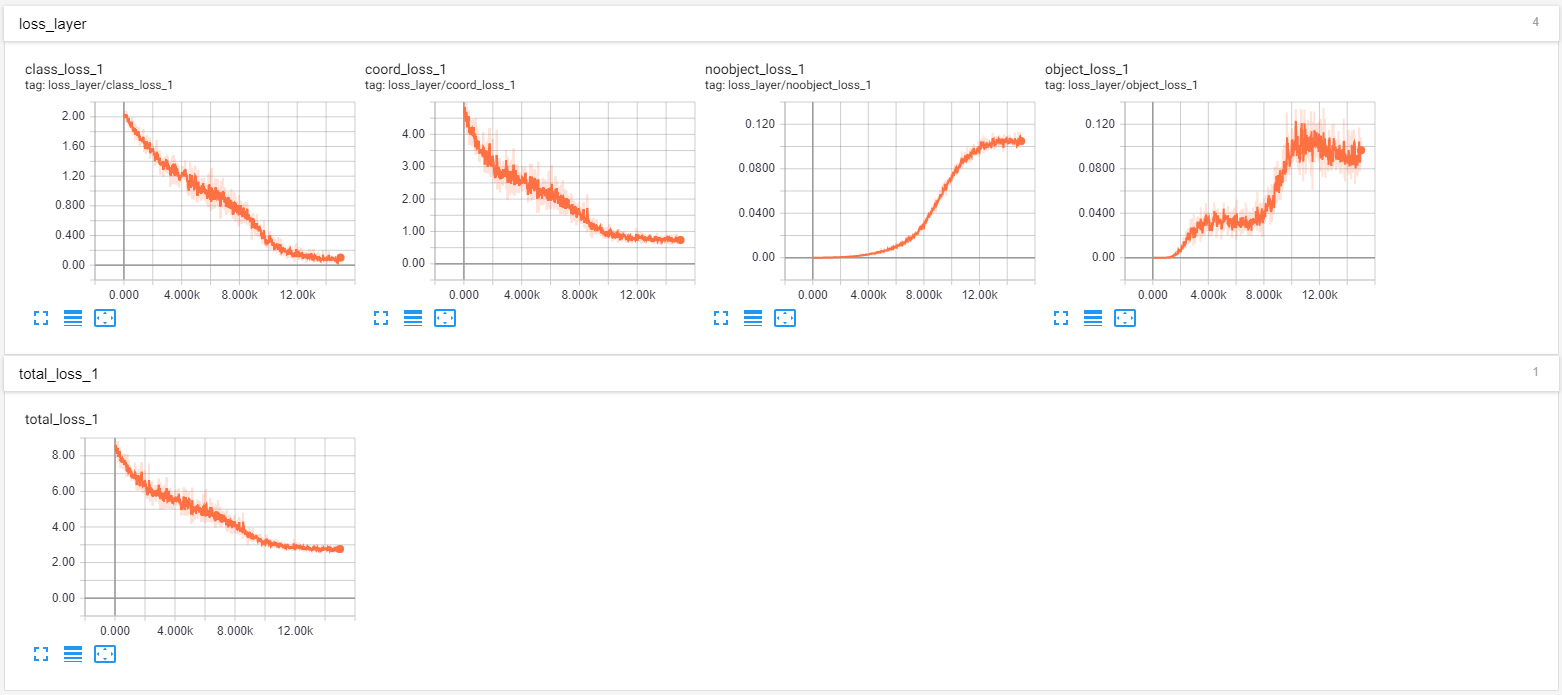
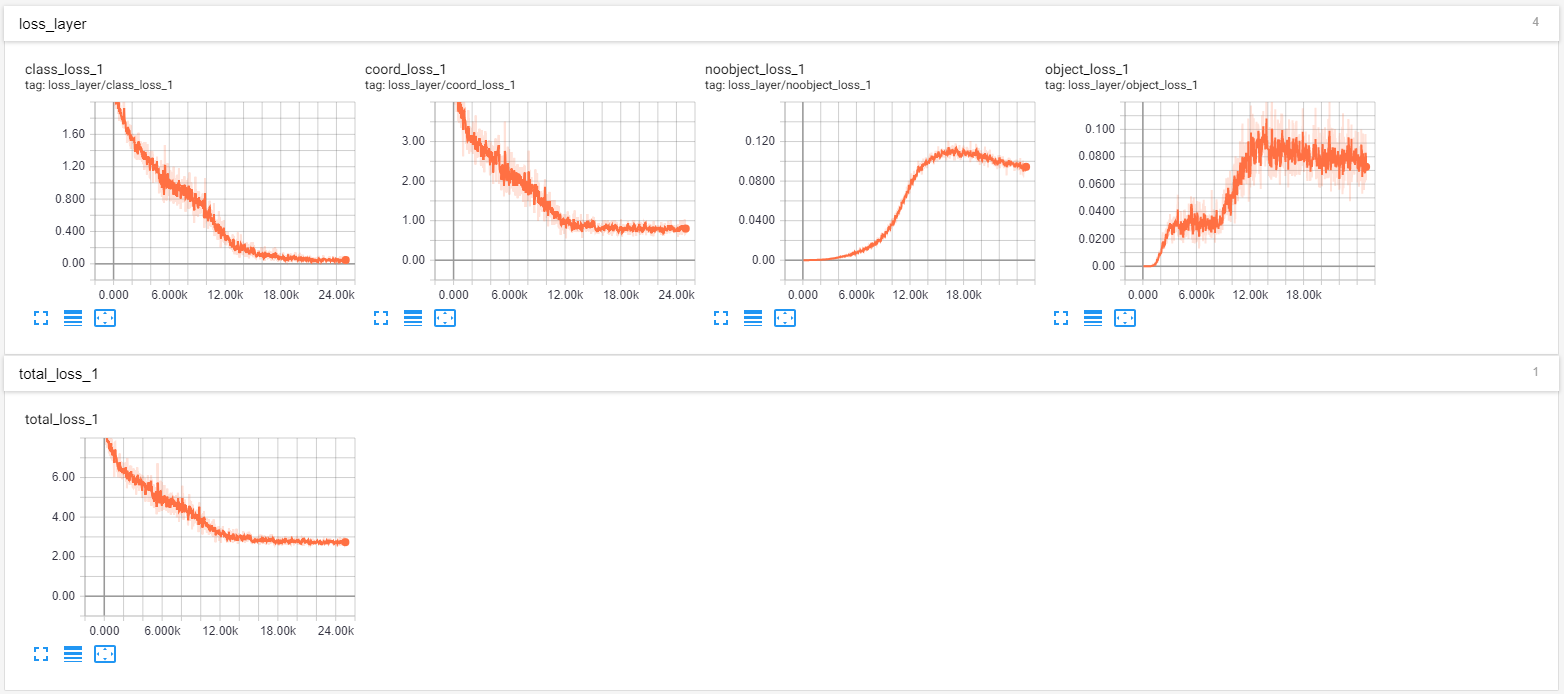
Terrible prediction accuracy, attempt to use transfer learning from pretrained VOC 2007 network

diff --git a/sandbox/YOLO/lp_implementation/test.py b/sandbox/YOLO/lp_implementation/test.py
@@ -6,6 +6,8 @@ import argparse
 import yolo.config as cfg
 from yolo.yolo_net import YOLONet
 from utils.timer import Timer
+import matplotlib.pyplot as plt
+import copy
 
 
 class Detector(object):
@@ -151,9 +153,10 @@ class Detector(object):
 
             ret, frame = cap.read()
 
-    def image_detector(self, imname, wait=0):
+    def image_detector(self, imname):
         detect_timer = Timer()
-        image = cv2.imread(imname)
+        im = cv2.imread(imname)
+        image = copy.deepcopy(im)
 
         detect_timer.tic()
         result = self.detect(image)
@@ -161,13 +164,13 @@ class Detector(object):
         print(('Average detecting time: {:.3f}s'.format(detect_timer.average_time)))
 
         self.draw_result(image, result)
-        cv2.imshow('Image', image)
-        cv2.waitKey(wait)
+        plt.imshow(image)
+        plt.show()
 
 
 def main():
     parser = argparse.ArgumentParser()
-    parser.add_argument('--weights', default="save.ckpt-15000", type=str)
+    parser.add_argument('--weights', default="save.ckpt-25000", type=str)
     parser.add_argument('--weight_dir', default='weights', type=str)
     parser.add_argument('--data_dir', default="data", type=str)
     parser.add_argument('--gpu', default='', type=str)
@@ -184,7 +187,7 @@ def main():
     # detector.camera_detector(cap)
 
     # detect from image file
-    imname = 'test/1.jpg'
+    imname = 'test/3.jpg'
     detector.image_detector(imname)
 
 

diff --git a/sandbox/YOLO/lp_implementation/utils/lp_with_car.py b/sandbox/YOLO/lp_implementation/utils/lp_with_car.py
@@ -61,9 +61,9 @@ class lp_with_car(object):
         cache_file = os.path.join(self.cache_path, 'lp_w_car_' + self.phase + '_gt_labels.pkl')
 
         if os.path.isfile(cache_file) and not self.rebuild:
-            print(('Loading gt_labels from: ' + cache_file))
             with open(cache_file, 'rb') as f:
                 gt_labels = pickle.load(f)
+            print(('Loading {} gt_labels from: {}'.format(len(gt_labels), cache_file)))
             return gt_labels
 
         print('Processing gt_labels from: ', self.data_paths)
